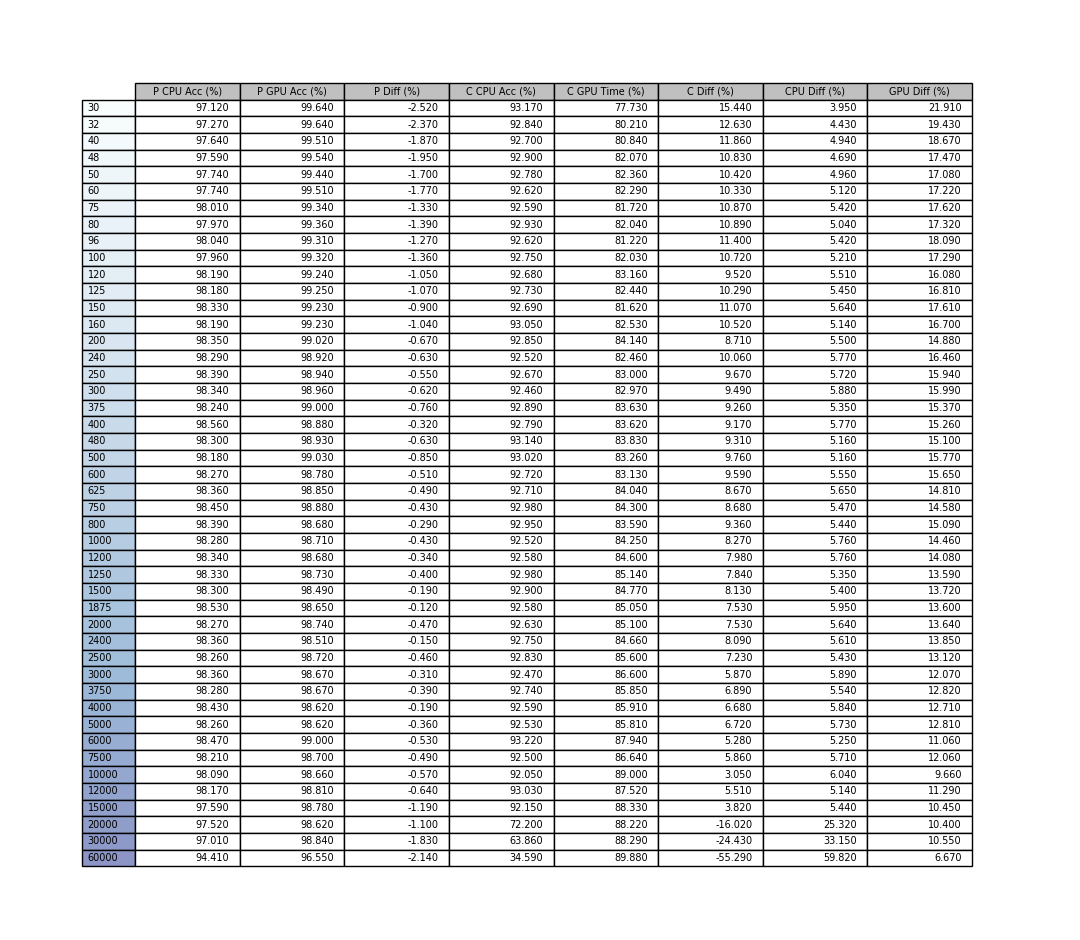
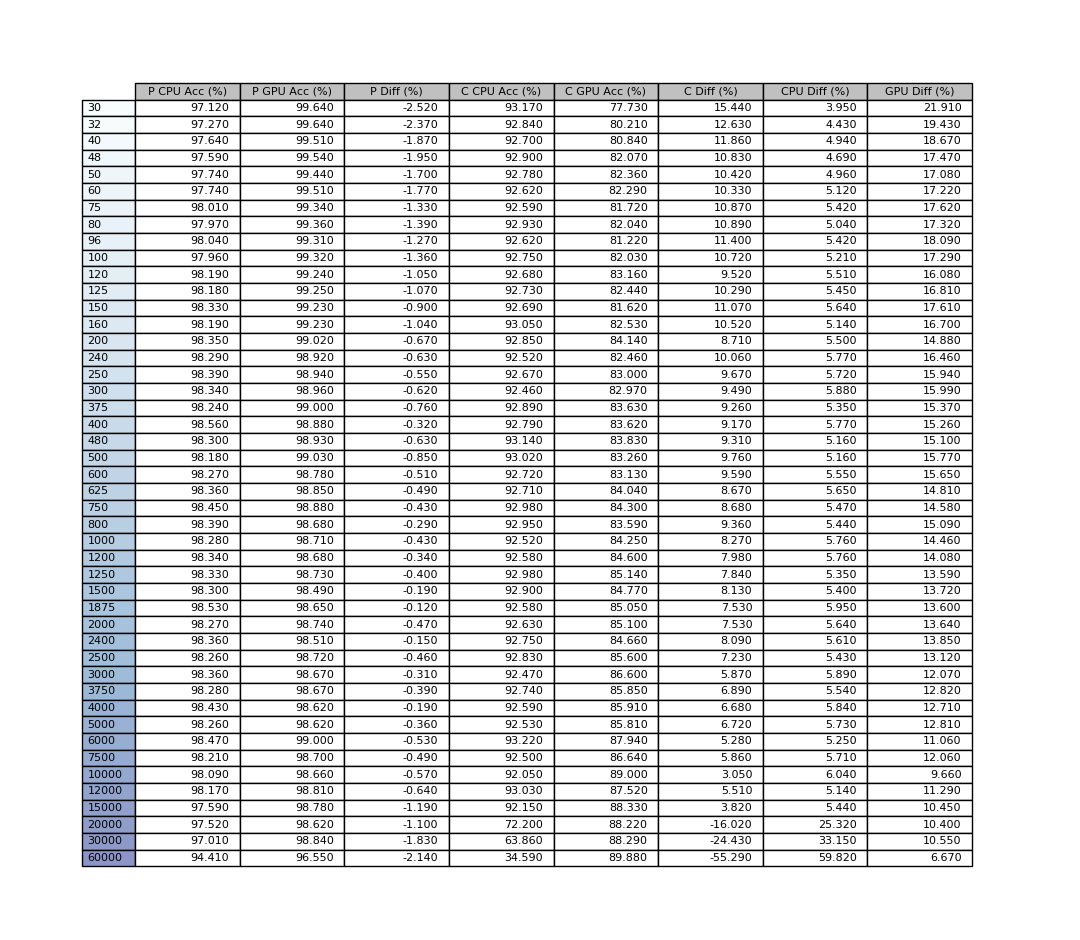
Updated column header in table

diff --git a/visualizer.py b/visualizer.py
@@ -131,7 +131,7 @@ def create_tables(times, accuracies, batch_sizes):
         cell_text.append(['%1.3f' % x for x in data[row]])
     
     #Get rows and cols for table
-    columns = ('P CPU Acc (%)', 'P GPU Acc (%)', 'P Diff (%)', 'C CPU Acc (%)', 'C GPU Time (%)', 'C Diff (%)', 'CPU Diff (%)', 'GPU Diff (%)')
+    columns = ('P CPU Acc (%)', 'P GPU Acc (%)', 'P Diff (%)', 'C CPU Acc (%)', 'C GPU Acc (%)', 'C Diff (%)', 'CPU Diff (%)', 'GPU Diff (%)')
 
     #Create table
     plt.clf()
